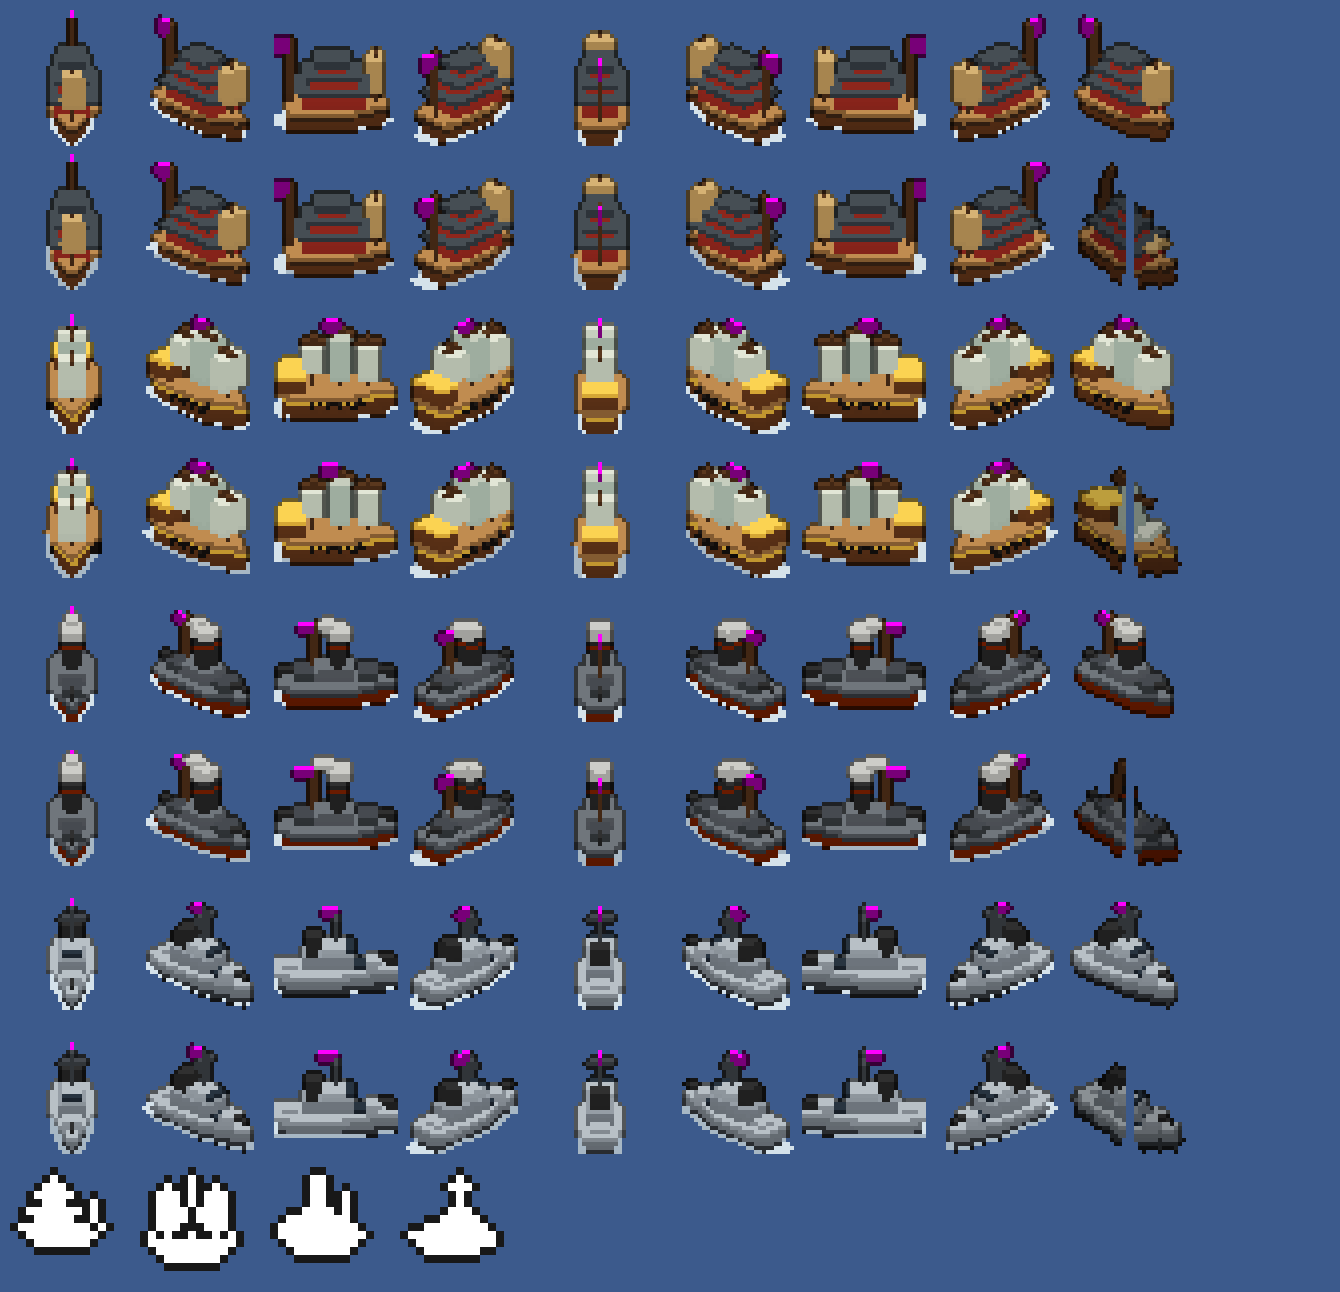
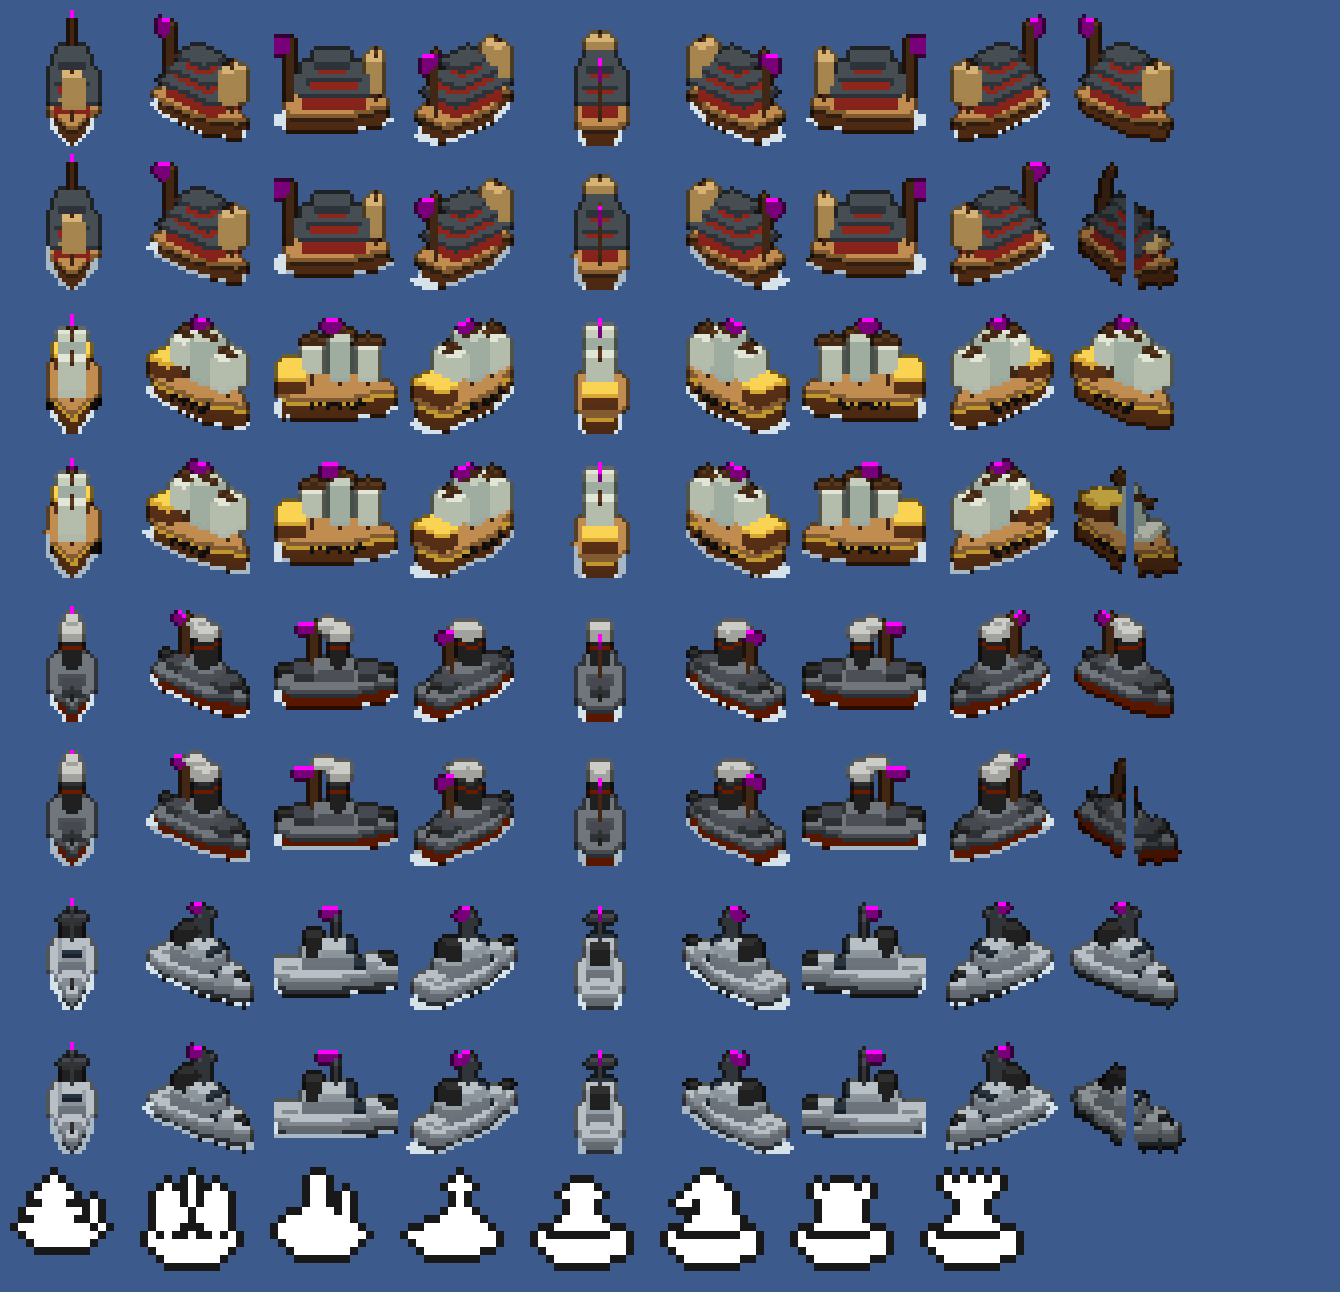
运兵船兵牌与舰队区分：渡海中的军团换海青边、深海底的框，印面是本军棋子(兵/马/车/后)站在船上(IconForge 生成 troopship_* 与 CorpsFrame_sea)；船上的兵牌不与岸上的折叠；悬停副标题写"渡海"

Changed region(s): [[0.3978, 0.8978, 0.7649, 0.9907]]

diff --git a/Scripts/UI/Components/CorpsMapRenderer.cs b/Scripts/UI/Components/CorpsMapRenderer.cs
@@ -27,6 +27,7 @@ namespace EmpireCraft.Scripts.UI.Components;
 //   · 交战标记：正在交战的城，朱漆框绛红底，两侧是攻守双方国色，中间是本月攻方胜算；
 //   · 舰队兵牌(见 NavySystem)：画在海上，船形图标按舰种(楼船/帆舰/铁甲/现代)，数字是战舰数(+运输船)，
 //     条是战舰编制与组织度；海战标记同交战标记，写本月胜算；
+//   · 渡海中的军团(运兵船)：海青边、深海底的框，印面是本军棋子站在船上，与舰队兵牌一眼分开；
 //   · 鼠标悬停兵牌或交战标记：放大、换金边、置顶，并显示详情提示；
 //     点击打开军事页(属于帝国的国家开帝国窗口的军团页，独立王国开本国军事窗口)，点进来的那几支军、那处交战高亮。
 // 画在地名画布上，按屏幕像素定大小(不随界面缩放放大)，镜头拉远时略缩小。
@@ -258,6 +259,15 @@ public static class CorpsMapRenderer
     {
         rank = Mathf.Clamp(rank, 0, 3);
         return Pieces[rank] ??= SpriteTextureLoader.getSprite("ui/icons/corps/chess_" + PieceNames[rank]) ?? White;
+    }
+
+    private static readonly Sprite[] Troopships = new Sprite[4];
+
+    // 运兵船：本军棋子站在船上
+    private static Sprite Troopship(int rank)
+    {
+        rank = Mathf.Clamp(rank, 0, 3);
+        return Troopships[rank] ??= SpriteTextureLoader.getSprite("ui/icons/corps/troopship_" + PieceNames[rank]) ?? Piece(rank);
     }
 
     private static readonly Sprite[] Ships = new Sprite[4];
@@ -605,7 +615,7 @@ public static class CorpsMapRenderer
         (_corpsGliders, _nextCorpsGliders) = (_nextCorpsGliders, _corpsGliders);
         // 折叠(先放兵力大的，挨着它的并进去)：镜头越远并得越宽，拉近后各自分开——
         // 近处只并同一国、在屏幕上互相压住的；拉远后范围放宽到约三块兵牌，行军途中的也并进去；
-        // 再远，互不交战的各国并成一块(兵力最大那国的颜色)，敌对的始终分开
+        // 再远，互不交战的各国并成一块(兵力最大那国的颜色)，敌对的始终分开；船上的(运兵船)不与岸上的并
         float far = FarFactor(camera);
         bool foldMovers = far >= FoldMoversFar, mixRealms = far >= MixRealmsFar;
         float foldX = CounterWidth * zoom * Mathf.Lerp(0.9f, 3f, far), foldY = CounterHeight * zoom * Mathf.Lerp(1.3f, 4.5f, far);
@@ -619,7 +629,8 @@ public static class CorpsMapRenderer
             if (!OnScreen(group.Screen, 80f)) continue;
             CounterGroup into = null;
             foreach (CounterGroup other in Folded)
-                if (Mergeable(other.Kingdom, group.Kingdom, mixRealms) && Mathf.Abs(other.Screen.x - group.Screen.x) < foldX &&
+                if (other.Embarked == group.Embarked && Mergeable(other.Kingdom, group.Kingdom, mixRealms) &&
+                    Mathf.Abs(other.Screen.x - group.Screen.x) < foldX &&
                     Mathf.Abs(other.Screen.y - group.Screen.y) < foldY)
                 {
                     into = other;
@@ -677,9 +688,10 @@ public static class CorpsMapRenderer
             Counter counter = GetCounter(counterCount++);
             counter.Root.gameObject.SetActive(true);
             counter.Root.localScale = pixelScale;
-            // 补给断绝换灰边；在船上换船形图标
-            SetFrame(counter.Frame, group.MinSupply < 0.25f ? Frame("CorpsFrame_ash") : TaskFrame(group.Task));
-            counter.Piece.sprite = group.Embarked ? Ship(group.Kingdom) : Piece(group.Rank);
+            // 在船上(运兵船)换海青框、棋子站在船上；否则补给断绝换灰边
+            SetFrame(counter.Frame, group.Embarked ? Frame("CorpsFrame_sea")
+                : group.MinSupply < 0.25f ? Frame("CorpsFrame_ash") : TaskFrame(group.Task));
+            counter.Piece.sprite = group.Embarked ? Troopship(group.Rank) : Piece(group.Rank);
             counter.Plate.color = group.Kingdom.getColor()?.getColorMain() ?? Color.gray;
             string label = group.Count > 1
                 ? $"{CorpsSystem.ShortStrength(group.Strength)}<color=#F3C34A>×{group.Count}</color>"
@@ -1092,6 +1104,8 @@ public static class CorpsMapRenderer
         string realmName = owners.Values.Distinct().Count() > 1
             ? string.Format(LM.Get("corps_chip_realms"), kingdom.GetKingdomName(), owners.Values.Distinct().Count())
             : kingdom.GetKingdomName();
+        // 渡海中的军团副标题写"渡海"，与舰队区分
+        if (list.Any(corps => corps.embarked)) task = "embarked";
         tooltip.setTitle($"{realmName} · {title}", "corps_task_" + task, colorHex);
 
         float strength = list.Sum(corps => corps.strength), full = list.Sum(corps => corps.full);

diff --git a/Tools/IconForge/ship_forge.py b/Tools/IconForge/ship_forge.py
@@ -10,7 +10,8 @@
   1 远洋帆舰  三桅白帆、船艉楼、金饰条与炮窗；
   2 蒸汽铁甲  铁灰船身、红色水线、烟囱(红箍、冒烟)、前后炮塔；
   3 现代舰艇  灰色舰身、阶梯式上层建筑与舰桥、雷达桅、前主炮、后烟囱。
-另出地图兵牌用的船形小图标 ui/icons/corps/ship_0..3(13×14 白色剪影 + 暗描边，与棋子同风格，按国色染色)。
+另出地图兵牌用的船形小图标 ui/icons/corps/ship_0..3(13×14 白色剪影 + 暗描边，与棋子同风格，按国色染色)；
+运兵船兵牌(渡海中的军团)用 ui/icons/corps/troopship_<棋子>：小号棋子站在船上，与舰队的船形图标区分开。
 
 python Tools/IconForge/ship_forge.py --preview   # 输出 ship_preview.png(放大)
 python Tools/IconForge/ship_forge.py --write     # 写入 GameResources
@@ -309,8 +310,49 @@ ICONS = [
 ]
 
 
+# 运兵船：军团的棋子(缩成 7 行)站在船舷之间，下面是船身(右为翘起的船首)
+_HULL = ["#........##",
+         "###########",
+         ".##########",
+         "..#######..",
+         "..........."]
+TROOPSHIP = {
+    "pawn": ["...........",
+             "....###....",
+             "...#####...",
+             "....###....",
+             "....###....",
+             "...#####...",
+             "..#######.."] + _HULL,
+    "knight": ["....##.....",
+               "...####....",
+               "..######...",
+               ".##.####...",
+               "....####...",
+               "...######..",
+               "..#######.."] + _HULL,
+    "rook": ["...........",
+             "..#.###.#..",
+             "..#######..",
+             "...#####...",
+             "...#####...",
+             "...#####...",
+             "..#######.."] + _HULL,
+    "queen": ["..#.#.#.#..",
+              "..#######..",
+              "...#####...",
+              "....###....",
+              "....###....",
+              "...#####...",
+              "..#######.."] + _HULL,
+}
+
+
 def icon(tier):
-    rows = ICONS[tier]
+    return silhouette(ICONS[tier])
+
+
+def silhouette(rows):
     img = Image.new("RGBA", (13, 14), (0, 0, 0, 0))
     filled = {(x + 1, y + 1) for y, row in enumerate(rows) for x, ch in enumerate(row) if ch == "#"}
     for x, y in filled:
@@ -330,6 +372,8 @@ def build():
         for name, img in sprites(tier).items():
             out[f"GameResources/actors/boats/ec_warship_{tier}/{name}.png"] = img
         out[f"GameResources/ui/icons/corps/ship_{tier}.png"] = icon(tier)
+    for name, rows in TROOPSHIP.items():
+        out[f"GameResources/ui/icons/corps/troopship_{name}.png"] = silhouette(rows)
     return out
 
 
@@ -350,6 +394,10 @@ def preview(images):
         ic = images[f"GameResources/ui/icons/corps/ship_{tier}.png"]
         sheet.alpha_composite(ic.resize((13 * 8, 14 * 8), Image.NEAREST),
                               (10 + tier * 130, sheet.height - 125))
+    for i, name in enumerate(TROOPSHIP):
+        ic = images[f"GameResources/ui/icons/corps/troopship_{name}.png"]
+        sheet.alpha_composite(ic.resize((13 * 8, 14 * 8), Image.NEAREST),
+                              (10 + (4 + i) * 130, sheet.height - 125))
     sheet.save(os.path.join(HERE, "ship_preview.png"))
 
 

diff --git a/Tools/IconForge/frame_forge.py b/Tools/IconForge/frame_forge.py
@@ -12,6 +12,7 @@
 地图兵牌与交战标记用小号框(18×18，九宫格边距四边各 6，见 CorpsMapRenderer)：
   · CorpsFrame_olive / lacquer / azure / ash ：兵牌，边色分别表示驻守、进攻(朱漆)、防守(石青)、溃退(铁灰)；
   · CorpsFrame_gold                          ：鼠标悬停的兵牌，金边；
+  · CorpsFrame_sea                           ：渡海中的军团(运兵船)，海青边、深海底，与舰队兵牌区分；
   · CorpsBattle / CorpsBattle_gold           ：交战标记，朱漆边、绛红底；悬停时金边。
   四角是小号金色角铁，内角一点朱红。
 
@@ -41,6 +42,8 @@ JADE = (94, 138, 90, 255)
 AZURE = ((122, 166, 222, 255), (78, 118, 176, 255), (42, 68, 112, 255))
 ASH = ((156, 152, 140, 255), (116, 112, 104, 255), (72, 70, 64, 255))
 BATTLE_FILL = (58, 26, 21, 246)
+SEA = ((110, 196, 184, 255), (58, 140, 134, 255), (28, 84, 84, 255))
+SEA_FILL = (22, 44, 56, 246)
 COUNTER_SIZE = 18
 COUNTER_BORDER = 6
 
@@ -197,6 +200,7 @@ def build():
         "GameResources/ui/CorpsFrame_azure.png": counter(AZURE),
         "GameResources/ui/CorpsFrame_ash.png": counter(ASH),
         "GameResources/ui/CorpsFrame_gold.png": counter(GOLD_EDGE),
+        "GameResources/ui/CorpsFrame_sea.png": counter(SEA, SEA_FILL),
         "GameResources/ui/CorpsBattle.png": counter(LACQUER, BATTLE_FILL),
         "GameResources/ui/CorpsBattle_gold.png": counter(GOLD_EDGE, BATTLE_FILL),
     }
